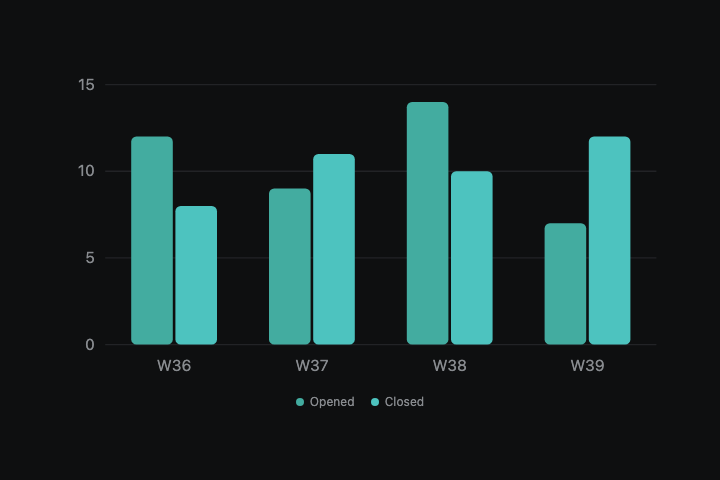
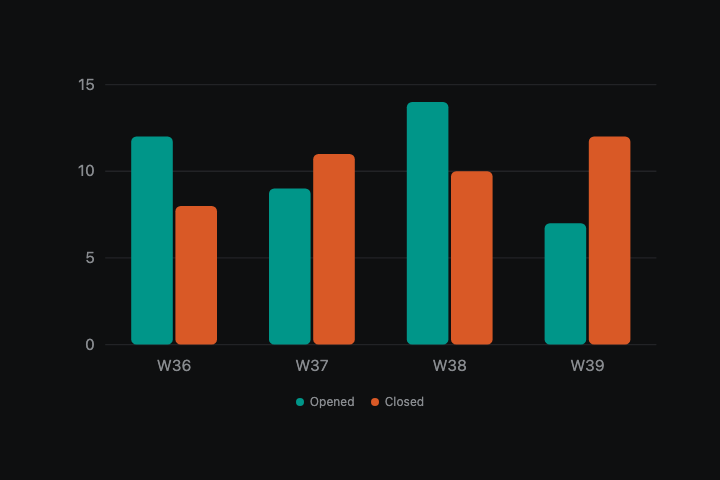
style: take brydio's six distinct chart hues

diff --git a/packages/ui/src/web/tokens.css b/packages/ui/src/web/tokens.css
@@ -257,14 +257,19 @@
   --composer-tray: var(--n-100);
 
   /* ---- Charts ---------------------------------------------------------
-     Six categorical hues at near-constant lightness, so no series reads as
-     more important than another. Hues are spread ≥45° apart. */
+     Six categorical hues in a fixed order, never cycled. Each neighbour
+     stays apart for red-, green- and blue-blind readers (ΔE ≥ 8) and for
+     everyone else (ΔE ≥ 15), and each clears 3:1 on the canvas; checked
+     with the dataviz palette validator, both themes. Green and red are
+     not here: they mean good and bad, and a series is neither. Teal is
+     only the brand's, so the second slot is not a second teal. Orange,
+     blue and magenta have no ramp of their own; they exist for charts. */
   --chart-1: var(--brand-600);
-  --chart-2: var(--teal-500);
-  --chart-3: var(--violet-500);
-  --chart-4: var(--amber-500);
-  --chart-5: var(--green-500);
-  --chart-6: var(--red-500);
+  --chart-2: oklch(0.671 0.175 40.6);
+  --chart-3: oklch(0.575 0.163 255.5);
+  --chart-4: var(--amber-600);
+  --chart-5: oklch(0.622 0.171 0.8);
+  --chart-6: var(--violet-500);
   --chart-grid: var(--line-faint);
   --chart-axis: var(--fg-faint);
 
@@ -433,12 +438,14 @@
   --composer-line: var(--n-800);
   --composer-tray: var(--n-925);
 
-  --chart-1: var(--brand-500);
-  --chart-2: var(--teal-400);
-  --chart-3: var(--violet-400);
-  --chart-4: var(--amber-400);
-  --chart-5: var(--green-400);
-  --chart-6: var(--red-400);
+  /* The same six hues stepped for the dark canvas, not lightened: a
+     lighter step drifts out of the band where the six read as equals. */
+  --chart-1: var(--brand-600);
+  --chart-2: oklch(0.622 0.173 40.1);
+  --chart-3: oklch(0.622 0.161 255.1);
+  --chart-4: oklch(0.670 0.143 73.2);
+  --chart-5: oklch(0.622 0.171 0.8);
+  --chart-6: var(--violet-500);
   --chart-grid: var(--line);
   --chart-axis: var(--fg-faint);
 
